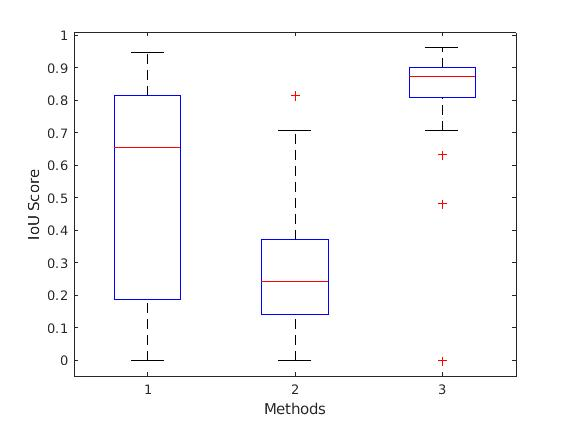
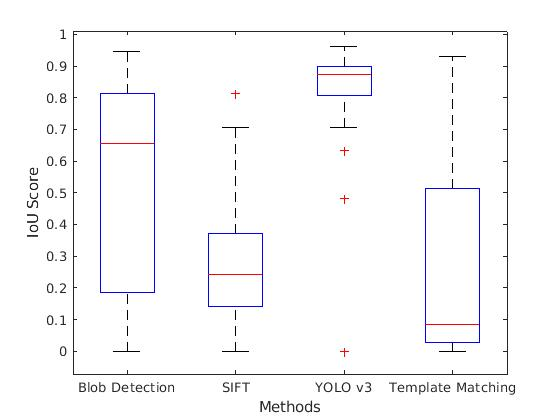
Added Template matching boxplot

diff --git a/blob-analysis/blob_analysis.m b/blob-analysis/blob_analysis.m
@@ -88,10 +88,11 @@ end
 toc
 IoUScore(2, :) = [0.048267822665840954, 0.305043964403871, 0.03697602413464592, 0.3122107216214925, 0.22833140763804885, 0.6985469562557357, 0.706446898895497, 0.21020795840831832, 0.5014468616633705, 0.22224566214862085, 0.04512676056338028, 0.8127978033219372, 0.07227881914851021, 0.0857320540156361, 0.43396297647961946, 0.37452969739846287, 0.5731531131804926, 0.3547267671505985, 0.2141458531248766, 0.33158925995306077, 0.0, 0.22630704392173548, 0.37257976958803307, 0.31396454422770215, 0.06563031651367571, 0.30744657704049, 0.07701953666295841, 0.4798640061521026, 0.16606370385121755, 0.23087251755137533, 0.12930031161224925, 0.13861936152877566, 0.19580589435176257, 0.04600582080815243, 0.1505376723569001, 0.33272308923569427, 0.3679112341149437, 0.35397559090710257, 0.18549280177187155, 0.32835752300239907, 0.6881701529267007, 0.18837642531065119, 0.05368671423717295, 0.14192664465557128, 0.3420727401129944, 0.49698140545761893, 0.2557178585668201, 0.2018631069814803, 0.6730526846483489, 0.5000348334958896]
 IoUScore(3, :) = [0.7055810667608619, 0.9612467676715086, 0.6337405770730439, 0.8798260146305878, 0.8717164937835162, 0.8839623723758173, 0.9381818181818182, 0.736282542195221, 0.910905795747543, 0.8895348837209303, 0.8198969813128894, 0.9565973594750573, 0.7782312925170068, 0, 0.8656857208462364, 0.9435479367915574, 0.8420456818858294, 0.8602736371705794, 0.8781763129589216, 0.9119792510941805, 0.8938746438746439, 0.8078792363045497, 0.7513766661520251, 0.8760031471282455, 0.8884113015284855, 0.873781623042383, 0.806911286826002, 0.9171333040238795, 0.885812386079437, 0.7768193791642993, 0.7291446626845006, 0.9050684492468294, 0.8417091192803708, 0.4833146239412185, 0.8758124045276431, 0.9124068841510403, 0.8638872034902199, 0.8743435858964741, 0.7916210295728368, 0.9028146574614976, 0.8913726339733001, 0.898874396998392, 0.7529301453352086, 0.8880360816584902, 0.8527248469091033, 0.9134058258591952, 0.8600682593856656, 0.9366526990386985, 0.8559312187754153, 0.8641832336099852]
+IoUScore(4, :) = [0.19662           0           0           0     0.20054     0.55303    0.078304           0     0.51218           0    0.037758    0.058381           0    0.068505    0.054828    0.049459    0.041926           0     0.16134     0.61731     0.53805     0.87691     0.15524     0.10476     0.73667     0.89328    0.048736     0.13462     0.79997     0.89259     0.72269     0.74271     0.92929           0    0.091029     0.79163    0.074565    0.028871    0.051791    0.016831    0.072476    0.051149           0           0     0.15694      0.1125           0     0.26086     0.19687     0.14165]
 IoUScore = IoUScore'
 
-methods = ["Blob Detection", "SIFT", "YOLO v3"];
-boxplot(IoUScore)
+methods = ["Blob Detection", "SIFT", "YOLO v3", "Template Matching"];
+boxplot(IoUScore, methods)
 xlabel("Methods")
 ylabel("IoU Score")
 overlapAverage = (overlapTotal / bboxCounter)
